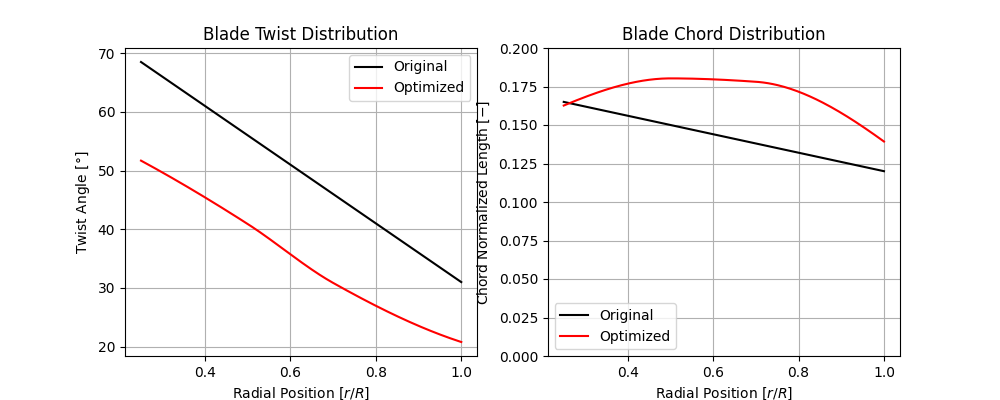
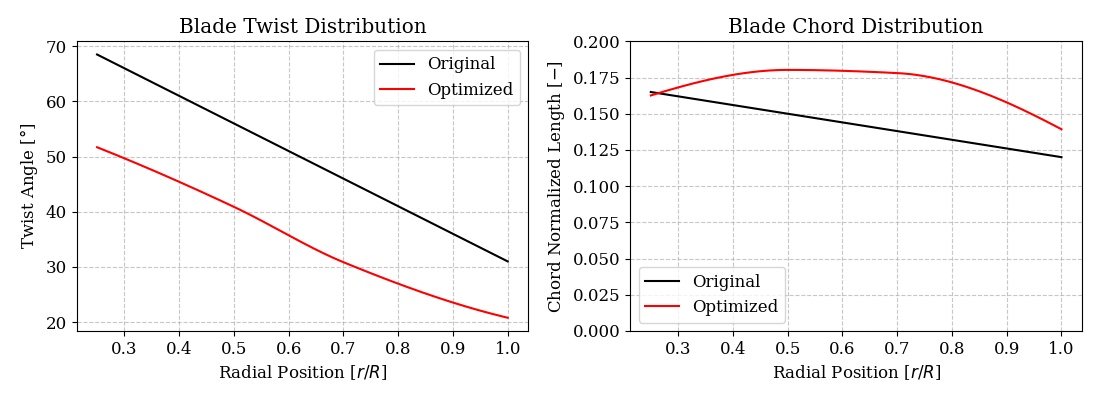
yallah

diff --git a/main.py b/main.py
@@ -6,6 +6,15 @@ import calcloads
 import getforces
 import momcorrections
 
+plt.rcParams.update({
+    "text.usetex": False,
+    "font.family": "serif",
+    "font.size": 12,
+    "axes.grid": True,
+    "grid.linestyle": '--',
+    "grid.alpha": 0.7
+})
+
 ### Geometry Configuration
 
 start = 0.25
@@ -33,21 +42,18 @@ h = 2000
 rho = 1.00649
 pinf = 79495
 
-J = np.array([1.6,2.13776722,2.4]) # 2.13776722
-# J = np.array([1.6,2.14285714,2.4]) #1.95
+J = np.array([1.6,1.7,1.8,1.9,2.0,2.1,2.2,2.3,2.4]) 
+# J = np.array([1.6,2.0,2.4]) # 2.13776722
 RPM = U0/(J*2*R)*U0
 print("Advance Ratio J: "+str(J))
 print("RPM: "+str(RPM))
-
-maxiter = 101
-tol = 1e-6
 
 ### Calculate geometry specification
 
 c, theta, sigma = defgeom.defGeom(R,B,x,start,tdist,pitch,cdist)
 c2, theta2, sigma2 = defgeom.defGeom(R,B,x,start,tdist2,pitch2,cdist2)
 
-fig1, (ax1, ax2) = plt.subplots(1, 2, figsize=(10, 4))
+fig1, (ax1, ax2) = plt.subplots(1, 2, figsize=(11, 4))
 
 ax1.plot(x,np.degrees(theta),color="black",label="Original")
 ax1.plot(x,np.degrees(tdist2)+np.degrees(pitch2),color="red",label="Optimized")
@@ -65,26 +71,18 @@ ax2.set_ylabel("Chord Normalized Length [$-$]")
 ax2.set_ylim([0,0.2])
 ax2.grid(True)
 ax2.legend()
+plt.tight_layout()
 
 ### Main Iteration Loop
 
-results = np.zeros([3,len(x)-1,8])
-results2 = np.zeros([3,len(x)-1,8])
+results = np.zeros([len(J),len(x)-1,8])
+results2 = np.zeros([len(J),len(x)-1,8])
 
 for j in range(len(J)):
     for i in range(len(x)-1):
 
         results[j,i,:] = calcloads.calculate_element_loads3(x[i]*R,R,start*R,c[i],theta[i],U0,RPM[j]/60*2*np.pi,sigma[i],B,J[j],airfoil) # dT, dQ, a, a_prime, phi, alpha
         results2[j,i,:] = calcloads.calculate_element_loads3(x[i]*R,R,start*R,c2[i],theta2[i],U0,RPM[j]/60*2*np.pi,sigma2[i],B,J[j],airfoil) # dT, dQ, a, a_prime, phi, alpha
-
-plt.rcParams.update({
-    "text.usetex": False, # Set to True if you have LaTeX installed on your system
-    "font.family": "serif",
-    "font.size": 12,
-    "axes.grid": True,
-    "grid.linestyle": '--',
-    "grid.alpha": 0.7
-})
 
 T = np.zeros(len(J))
 Q = np.zeros(len(J))
@@ -114,13 +112,8 @@ p3 = p2+0.5*rho*results[1,:,2]*U0**2*2
 p4 = p3
 
 figpres = plt.figure(figsize=(10,5))
-# for i in range(int(el/10)):
-#     plt.plot([-1,0,0,1],[p1,p2,p3[i*10],p4[i*10]],label=str(i*10))
 plt.plot(x*R,[p1/1000]*(el),label="Ambient and Upwind",color="orange")
-# plt.plot(x*R,[p2]*(el))
 plt.plot(x[:(el-1)]*R,p3/1000,label="Downwind and Infinity",color="red")
-# plt.plot(x[:(el-1)]*R,p3alt)
-# plt.plot(x[:(el-1)]*R,p4)
 plt.xlabel("Radial Position [$m$]")
 plt.ylabel("Total Pressure [$kPa$]")
 plt.legend()
@@ -151,7 +144,6 @@ plt.plot(x[1:(el-1)],np.degrees(results[2,:,5][1:]),label=r"$J=$"+str(J[2]),colo
 plt.xlabel("$r/R$ [-]")
 plt.ylabel(r"Angle of Attack $\alpha$ [$\degree$]")
 plt.legend()
-# plt.show()
 
 ### PHI
 
@@ -163,7 +155,6 @@ plt.plot(x[1:(el-1)],np.degrees(results[2,:,4][1:]),label=r"$J=$"+str(J[2]),colo
 plt.xlabel("$r/R$ [-]")
 plt.ylabel(r"Inflow Angle $\phi$ [$\degree$]")
 plt.legend()
-# plt.show()
 
 ### a and a'
 
@@ -188,7 +179,6 @@ ax1.legend()
 ax2.legend()
 ax3.legend()
 plt.tight_layout()
-# plt.show()
 
 ### THRUST DIST.
 
@@ -200,7 +190,7 @@ plt.plot(x[1:(el-1)],results[2,:,0][1:],label=r"$J=$"+str(J[2]),color="green")
 plt.xlabel("$r/R$ [-]")
 plt.ylabel(r"Thrust Distribution [$N/m$]")
 plt.legend()
-# plt.show()
+plt.tight_layout()
 
 fig1 = plt.figure(figsize=(10,6))
 plt.title(r"Spanwise Distribution of $dQ$")
@@ -210,6 +200,7 @@ plt.plot(x[1:(el-1)],results[2,:,1][1:],label=r"$J=$"+str(J[2]),color="green")
 plt.xlabel("$r/R$ [-]")
 plt.ylabel(r"Torque Distribution [$Nm/m$]")
 plt.legend()
+plt.tight_layout()
 plt.show()
 
 # Final Plots
@@ -221,6 +212,7 @@ plt.plot(x[2:(el-1)],results2[1,:,0][2:],label=r"Optimized",color="darkred")
 plt.xlabel("$r/R$ [-]")
 plt.ylabel(r"Thrust Distribution [$N/m$]")
 plt.legend()
+plt.tight_layout()
 
 fig1 = plt.figure(figsize=(10,6))
 plt.title(r"Spanwise Distribution of $dQ$")
@@ -229,4 +221,27 @@ plt.plot(x[2:(el-1)],results2[1,:,1][2:],label=r"Optimized",color="darkred")
 plt.xlabel("$r/R$ [-]")
 plt.ylabel(r"Torque Distribution [$Nm/m$]")
 plt.legend()
+plt.tight_layout()
+plt.show()
+
+fig, [ax1,ax2,ax3] = plt.subplots(1,3,figsize=(14,5))
+
+ax1.set_xlabel('Advance Ratio J [-]')
+ax1.set_ylabel(r'Thrust [$N$]')
+ax1.plot(J,T, color="darkblue", label="Thrust")
+ax1.tick_params(axis='y')
+ax1.legend()
+
+ax2.set_xlabel('Advance Ratio J [-]')
+ax2.set_ylabel(r'Torque [$Nm$]')
+ax2.plot(J,Q, color="red",label="Torque")
+ax2.tick_params(axis='y')
+ax2.legend()
+
+ax3.set_xlabel('Advance Ratio J [-]')
+ax3.set_ylabel(r'Power [$kW$]')
+ax3.plot(J,P/1000, color="orange",label="Power")
+ax3.tick_params(axis='y')
+ax3.legend()
+fig.tight_layout()
 plt.show()

diff --git a/objectivefunction.py b/objectivefunction.py
@@ -138,7 +138,6 @@ def objectivefunctionBez(params, R, B, start, U0, RPM, J, x, airfoil, xi):
     # Run BEM
     for i in range(n):
         r_local = x[i] * R
-        # results[i, :] = calcloads.calculate_turbine2(x[i]*R,R,start*R,c[i],theta[i],U0,RPM/60*2*np.pi,sigma[i],B,airfoil)
         results[i, :] = calcloads.calculate_element_loads3(x[i]*R,R,start*R,c[i],theta[i],U0,RPM/60*2*np.pi,sigma[i],B,J,airfoil)
 
     # Calc power
@@ -147,11 +146,9 @@ def objectivefunctionBez(params, R, B, start, U0, RPM, J, x, airfoil, xi):
     Q = np.sum(results[:, 1] * dr)
     P = omega * Q
 
-    # # Penalties for invalid geometry or NaNs
+    # # Penalties for invalid alpha
     if (np.degrees(results[:,5])<-10).any():
         # print("AH")
         return 1e9
-
-    # print(str(B*c/(2*np.pi*R)))
 
     return P

diff --git a/calcloads.py b/calcloads.py
@@ -29,8 +29,7 @@ def getforces(alpha_rad, alpha_polar_deg, cl_polar, cd_polar):
 
 def corrections(phi,B,R,r_local,R_root):
 
-#Prandtl Tip and Root Corrections
-    sin_phi = abs(np.sin(phi)) + 1e-8  # Avoid division by zero
+    sin_phi = abs(np.sin(phi)) + 1e-8
 
     #tip correction
     exp_arg_tip = -(B * (R - r_local)) / (2 * r_local * sin_phi)
@@ -38,7 +37,6 @@ def corrections(phi,B,R,r_local,R_root):
 
     #root correction
     exp_arg_root = -(B * (r_local - R_root)) / (2 * r_local * sin_phi)
-    # print(np.exp(exp_arg_root))
     F_root = (2 / np.pi) * np.arccos(np.exp(exp_arg_root))    
 
     #combined correction

diff --git a/defgeom.py b/defgeom.py
@@ -1,14 +1,5 @@
 import numpy as np
 
-# x = np.linspace(0.25,1,100)
-
-# R = 0.7
-# B = 6
-# start = 0.25
-# twist = -np.radians(50)*x+np.radians(35) # for x>0.25
-# pitch = np.radians(46) # x=0.7
-# cdist = 0.18-0.06*x # for x>0.25
-
 def defGeom(R, B, x, start, tdist, pitch, cdist):
 
     r = x*R
@@ -27,13 +18,3 @@ def calcPhi(x,R,RPM,U0):
     phi = np.arctan(Vax/Vtgt)
 
     return Vax,Vtgt,Veff,phi
-
-# c, theta, sigma = defGeom(R,B,x,start,twist,pitch,cdist)
-
-# import matplotlib.pyplot as plt
-# plt.plot(x,c)
-# plt.show()
-# plt.plot(x,np.degrees(theta))
-# plt.show()
-# plt.plot(x,sigma)
-# plt.show()
